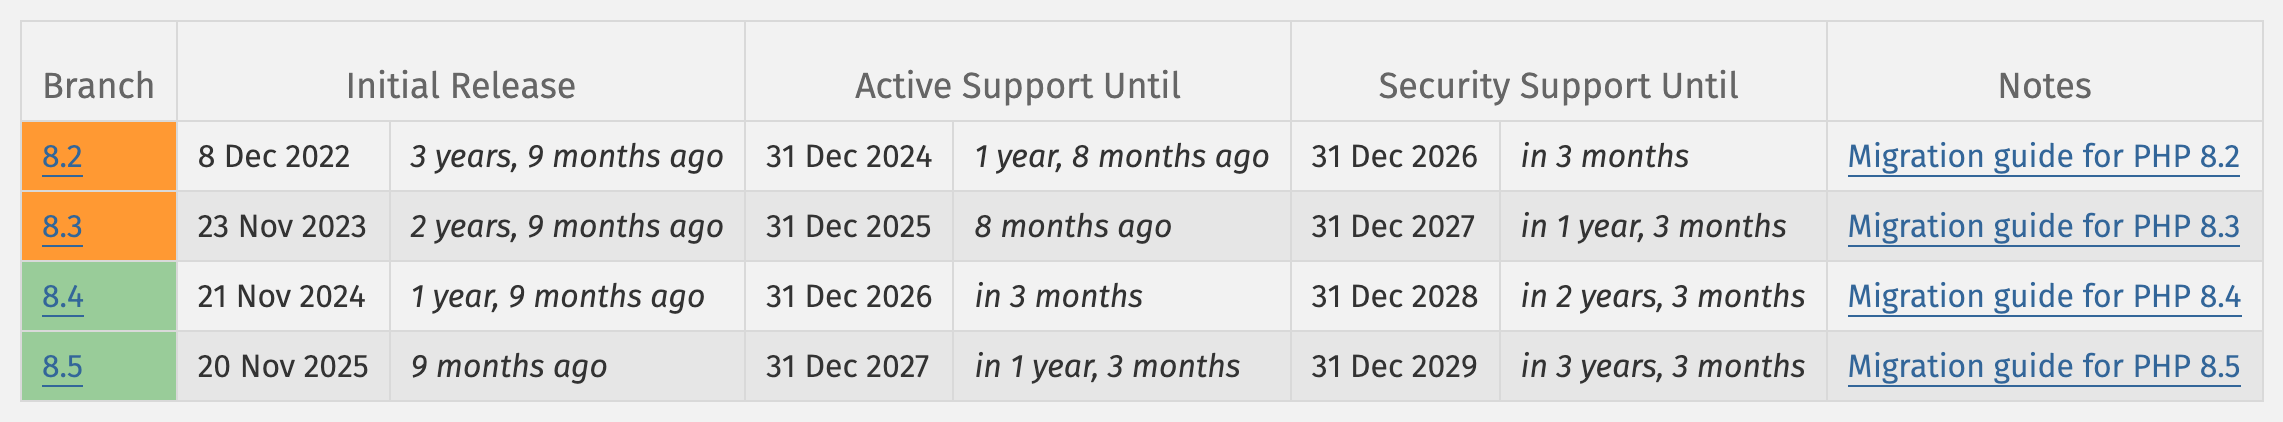
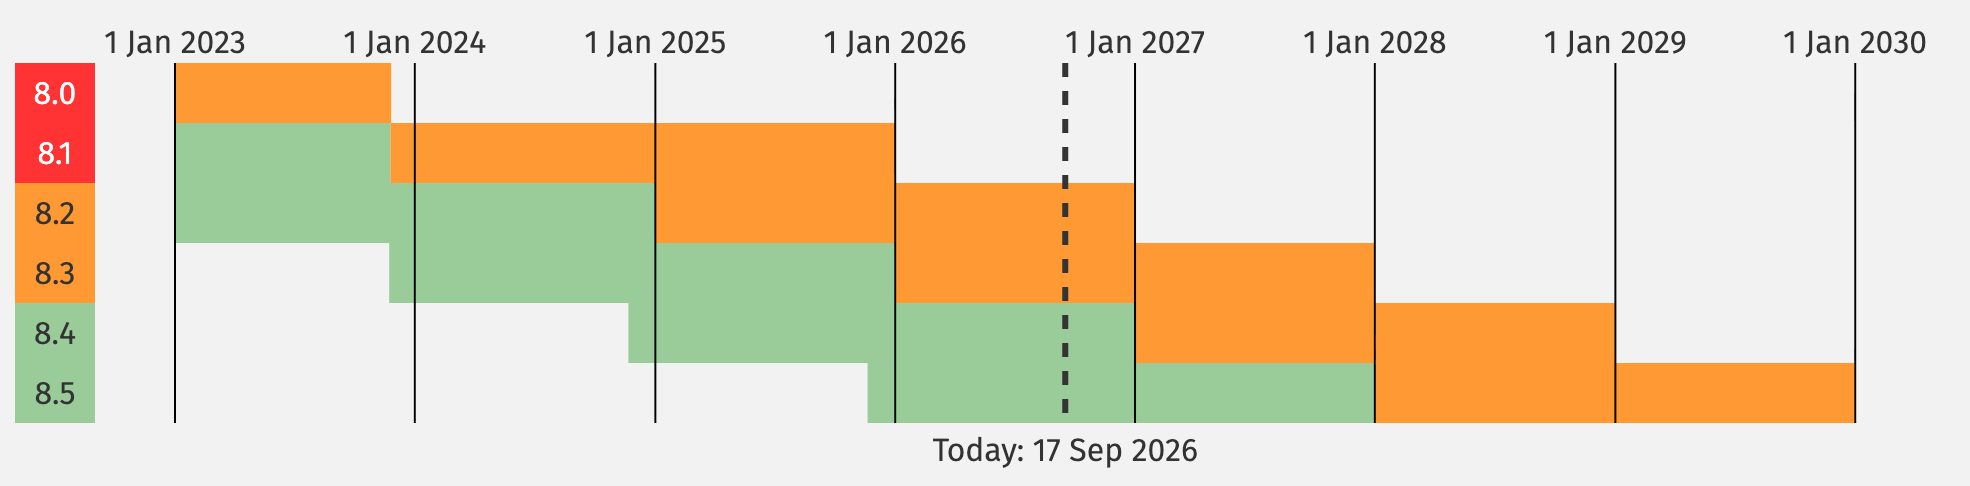
feat: add PHPBenelux, AFUP Day 2027 and ForumPHP ticket promo slides
- Refresh supported PHP versions slide with the Gantt-style calendar view
- Add PHPBenelux Conference 2027 slide (logo, venue, date, price)
- Add AFUP Day 2027 slide with candidate cities and Datadog logo on thanks slide
- Add ForumPHP private ticket promo slide with QR code

diff --git a/2026-09-meetup/index.html b/2026-09-meetup/index.html
@@ -88,6 +88,26 @@
                     </ul>
                 </section>
                 <section>
+                    <h2>🎟 Billetterie privée AFUP Paris !</h2>
+                    <p style="font-size: 0.9em; margin-top: 0.5em;">
+                        <s>450€ HT</s> → <b style="color:#c0392b; font-size:1.3em;">425€ HT</b>
+                    </p>
+                    <p style="font-size: 0.6em;">-25€, soit -5,6% sur le prix public</p>
+                    <img src="./assets/images/forumphp-billetterie-privee-qr.png" style="height: 260px; margin: 0.5em 0;" />
+                    <p style="font-size: 0.55em; margin-top: 0.5em;">⚠ Seulement 30 places disponibles avec ce lien, premiers arrivés premiers servis !</p>
+                </section>
+                <section>
+                    <img src="./assets/images/afup-day-2027.svg" style="height: 150px" />
+                    <h2>AFUP Day 2027</h2>
+                    <p>Villes candidates :</p>
+                    <ul>
+                        <li>Lille</li>
+                        <li>Lyon</li>
+                        <li>Paris</li>
+                    </ul>
+                    <p>Réponse à la clôture du ForumPHP, le 9 octobre 2026</p>
+                </section>
+                <section>
                     <h2>Autres meetups dev à Paris</h2>
                     <ul style="font-size: 0.6em;">
                         <li style="margin-top: 10px;"><b>Node.js Paris</b> — 23 sept. — talks Node/JS chez Algolia</li>
@@ -96,6 +116,14 @@
                         <li style="margin-top: 10px;"><b>ParisRb</b> — 6 oct. — meetup Ruby/backend chez Pennylane</li>
                     </ul>
                     <p style="font-size: 0.4em; margin-top: 1em;">meetup.com</p>
+                </section>
+                <section>
+                    <img src="./assets/images/phpbenelux-logo.png" style="height: 150px" />
+                    <ul>
+                        <li>📍 Hotel Ter Elst, Edegem (Antwerp), Belgique</li>
+                        <li>📅 Samedi 23 janvier 2027</li>
+                        <li>💶 350€ (ticket régulier, TTC)</li>
+                    </ul>
                 </section>
                 <section>
                     <h1>Actu PHP</h1>
@@ -184,6 +212,7 @@ composer require symfony/polyfill-time</code></pre>
                 </section>
                 <section style="font-size: 0.8em !important">
                     <h2>Et pour finir</h2>
+                    <img src="./assets/images/datadog-logo.png" style="height: 100px; margin: 1em 0" />
                     <p>Hébergé et apéro offert par Datadog</p>
                     <p>Merci à eux !</p>
                 </section>
